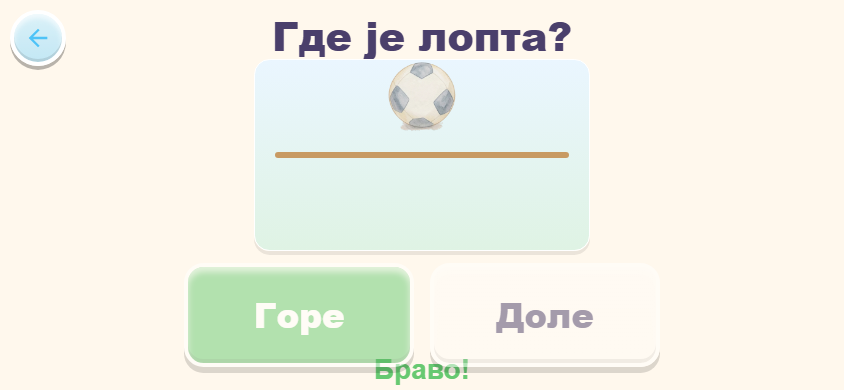
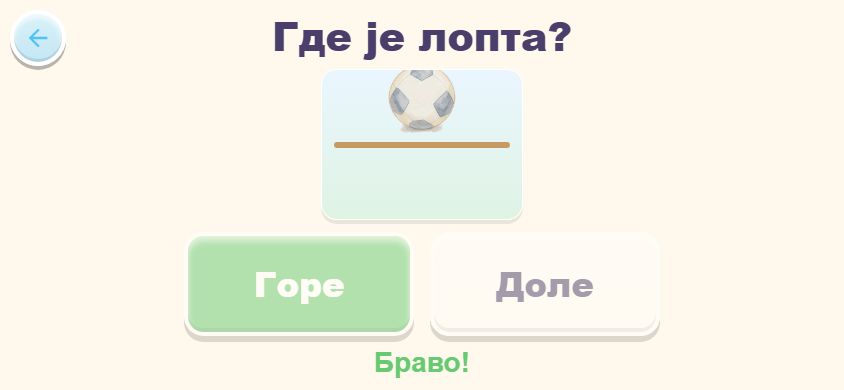
fix(spatial): keep success feedback clear of answer buttons on short landscape
Task 390. At 844x390 the 'Браво!' success feedback overlapped the answer buttons by 13px. Confirmed by measuring all four viewports first (only phone landscape collided), then shrank the fixed-ratio stage at short heights so the whole stage fits the viewport and the feedback sits below the choices with its existing gap. Re-verified: phone landscape gap is now +11px, all other viewports unchanged. New spatial_smoke.js guard negative-tested against the old layout (gap -13px -> fail), restored from pre-mutation copy. 8 review screenshots, version 3.0.6 -> 3.0.7.

Agent: OpenCode/Big Pickle

Changed region(s): [[0.2156, 0.2769, 0.8009, 0.9846], [0.4621, 0.1538, 0.5237, 0.2462], [0.7701, 0.8308, 0.8009, 0.8615]]

diff --git a/tools/spatial_smoke.js b/tools/spatial_smoke.js
@@ -177,6 +177,25 @@ const MODES = [
   check('V5.1 grammar: all four §23 regions present on spatial', lsj.found.every(Boolean), JSON.stringify(lsj));
   check('V5.1 grammar: instruction + stage-mat render a real box; no h-overflow; non-vacuous', lsj.visible && lsj.overflow && lsj.bogus === false, JSON.stringify(lsj));
 
+  /* Task 390: on short landscapes the success feedback must never touch the
+     answer buttons. Drive a correct answer at 844x390 and measure the gap. */
+  await h.c.send('Emulation.setDeviceMetricsOverride', { width: 844, height: 390, deviceScaleFactor: 1, mobile: true });
+  await sleep(150);
+  await h.evalv(`window.__spatial.setRound(0)`);
+  const correctKey390 = (await state()).correct;
+  await h.tap(`#spatial-choice-${correctKey390}`);
+  await sleep(60);
+  const gap = JSON.parse(await h.evalv(`JSON.stringify((() => {
+    const fb = document.getElementById('spatial-feedback');
+    const ba = document.getElementById('spatial-choice-a').getBoundingClientRect();
+    const bb = document.getElementById('spatial-choice-b').getBoundingClientRect();
+    const f = fb.getBoundingClientRect();
+    const maxBot = Math.max(ba.bottom, bb.bottom);
+    return { gap: Math.round(f.top - maxBot), fbTop: Math.round(f.top), btnBot: Math.round(maxBot), fbText: fb.textContent };
+  })())`));
+  check('task 390: at 844x390 the success feedback does not touch the answer buttons',
+    gap.gap > 0 && gap.fbText === 'Браво!', JSON.stringify(gap));
+
   await h.close();
   console.log(`\n${getFails() === 0 ? 'ALL' : 'SOME'} CHECKS ${getFails() === 0 ? 'PASSED' : 'FAILED'} (${getFails()} fail)`);
   process.exit(getFails() ? 1 : 0);

diff --git a/docs/pages/spatial.html b/docs/pages/spatial.html
@@ -71,6 +71,14 @@
 
     #spatial-feedback{min-height:6vmin;font-size:4.4vmin;font-weight:700;color:var(--green);text-align:center}
     @media (min-width:800px){#spatial-prompt{font-size:40px}.spatial-choice{font-size:34px;min-width:230px;min-height:104px}#spatial-feedback{font-size:28px}}
+    /* Task 390: on short landscapes the success/try-again feedback ran into the
+       answer buttons. Shrink the fixed-ratio stage a little so the whole stage
+       (prompt, scene, choices, feedback) fits the viewport and the feedback
+       naturally sits below the choices with its existing gap instead of
+       overlapping them. */
+    @media (max-height: 520px) {
+      #spatial-scene { width: min(52vmin, 210px); }
+    }
     @media (prefers-reduced-motion: reduce){.spatial-choice{transition:none}.spatial-choice:active{transform:none}.spatial-choice.spatial-wrong{animation:none}}
   </style>
 </head>

diff --git a/game/pages/spatial.html b/game/pages/spatial.html
@@ -71,6 +71,14 @@
 
     #spatial-feedback{min-height:6vmin;font-size:4.4vmin;font-weight:700;color:var(--green);text-align:center}
     @media (min-width:800px){#spatial-prompt{font-size:40px}.spatial-choice{font-size:34px;min-width:230px;min-height:104px}#spatial-feedback{font-size:28px}}
+    /* Task 390: on short landscapes the success/try-again feedback ran into the
+       answer buttons. Shrink the fixed-ratio stage a little so the whole stage
+       (prompt, scene, choices, feedback) fits the viewport and the feedback
+       naturally sits below the choices with its existing gap instead of
+       overlapping them. */
+    @media (max-height: 520px) {
+      #spatial-scene { width: min(52vmin, 210px); }
+    }
     @media (prefers-reduced-motion: reduce){.spatial-choice{transition:none}.spatial-choice:active{transform:none}.spatial-choice.spatial-wrong{animation:none}}
   </style>
 </head>

diff --git a/project/tasks/ACTIVE.md b/project/tasks/ACTIVE.md
@@ -24,7 +24,7 @@ Only **NEW / IN PROGRESS / DEFERRED** tasks live here (budget: 20 KB, checked by
 - 387. DONE — Verify Coloring clear-button and palette geometry in phone landscape; change layout only if a real collision or unsafe proximity is measured (2026-11-06, OpenCode/Big Pickle). Measured boxes confirmed the review: at 844×390 (and every phone size) the palette tracks were a flat `9vmin` (=35px) while each swatch is a button with the global 64px floor, so neighbouring circles overlapped by up to 1783px² and the last column of row 1 spilled 29px past the palette box into the clear button (230px² overlap). Root fix: one `--swatch: clamp(48px, 9vmin, 72px)` token feeds both `grid-template-columns` and the swatch size (with `min-width/min-height:0` so the grid decides, the established classroom-tile pattern); phones get clean 48px targets, tablet/desktop keep 72px. Two new `coloring_smoke.js` guards (clear vs palette/swatch, swatch vs swatch) negative-tested against the old CSS, 8 refreshed review screenshots, version 3.0.3 → 3.0.4.
 - 388. DONE — Fix Cat Forest feeding-station crowding on short stages: the cat lift was a fixed stage fraction (`CAT_LIFT = 0.10`) too small on phone landscape (cat covered 37% of plate / 49% of treat). Cache `catH`/`plateH`/`stageH` in `measure()`, compute `liftPx = plateH/2 + catH/2 + 12` → lift fraction, re-`measure()` after the first cat element is appended in `renderCats()`; `catPos()` still returns the cat centre so sparkle/heart effects are unchanged (2026-11-06, OpenCode/Big Pickle). All five viewports now seat the cat with a 12px gap and 0% overlap. New `cat_forest_smoke.js` guard (seated cat vs plate/treat at tablet/desktop/phone-landscape/portrait) negative-tested against the old lift (37%/49% overlap on 844×390 → fails), restored from pre-mutation copy. 8 review screenshots, version 3.0.4 → 3.0.5.
 - 389. DONE — Improve Animal Counting stage balance and artwork scale without reducing the existing 64px answer-target floor: animal tiles were smallest (43 px) on phone landscape where the board is widest. Enlarged tiles (`clamp(60px,16vmin,104px)` base; `clamp(52px,13vmin,72px)` short-landscape) and a subtle warm stage background (`#FFF9F0`), so even 2-3 animals command the board. Verified all four viewports (portrait 62px, landscape 52px, tablet/desktop 104px) and that the V11 worst case (10 tiles + 10 choices) still fits with no overflow and the 64px choice floor holds. New `counting_smoke.js` guards (tile size at 4 viewports) negative-tested against the old clamps (portrait 59px/landscape 43px → fail), restored from pre-mutation copy. 8 review screenshots, version 3.0.5 → 3.0.6. (2026-11-06, OpenCode/Big Pickle)
-- 390. NEW — Separate Spatial feedback from answer controls at short landscape; implement only after confirming the near-collision.
+- 390. DONE — Separate Spatial feedback from answer controls at short landscape (implemented only after confirming the near-collision): at 844x390 the "Браво!" success feedback overlapped the answer buttons by 13px (gap -13px). Confirmed by measurement at all four viewports (only phone landscape collided), then shrank the fixed-ratio stage at short heights (`max-height:520px: #spatial-scene { width: min(52vmin, 210px); }`) so the whole stage fits the viewport and the feedback naturally sits below the choices with its existing gap. Re-verified: phone landscape gap is now +11px, feedback in view, prompt visible; portrait/tablet/desktop unchanged (gaps +11/+24/+24px). New spatial_smoke.js guard (correct answer at 844x390, gap > 0) negative-tested against the old layout (gap -13px → fail), restored from pre-mutation copy. 8 review screenshots, version 3.0.6 → 3.0.7. (2026-11-06, OpenCode/Big Pickle)
 - 391. NEW — Assess Compare portrait scale through child/device feedback before making subjective composition changes.
 - 392. NEW — Run portfolio playtesting Sessions A–D on a real device where possible; record observations and limitations.
 - 393. NEW — Reconcile GAME_MATRIX, current app registry, test/offline/screenshot flags and actual game-guide file mappings.

diff --git a/resources/General_reviews/Screenshot_Review/TABLE_OF_CONTENT.md b/resources/General_reviews/Screenshot_Review/TABLE_OF_CONTENT.md
@@ -1,6 +1,6 @@
 # Преглед екрана (UI review)
 
-- Генерисано / Generated: 2026-11-06T12:43:51.459Z
+- Генерисано / Generated: 2026-11-06T12:53:29.444Z
 - Поново направи / Regenerate: `node tools/screenshot.js --review=Screenshot_Review`
 - Освежи само промењену страну / Refresh only a changed page: `node tools/screenshot.js --review=Screenshot_Review --pages=<id> --task=<id>`
 
@@ -168,14 +168,14 @@
 | `space_phone-portrait.png` | Свемир | `/pages/space.html` | 390×844 | портрет | — | 05.11.2026. 21:02:59 | 380 |
 | `space_tablet-landscape.png` | Свемир | `/pages/space.html` | 1180×820 | пејзаж | — | 05.11.2026. 21:02:59 | 380 |
 | `space_tablet-portrait.png` | Свемир | `/pages/space.html` | 820×1180 | портрет | — | 05.11.2026. 21:02:59 | 380 |
-| `spatial__phone-landscape__PLAY.png` | Простор | `/pages/spatial.html` | 844×390 | пејзаж | PLAY | 05.11.2026. 19:48:22 | 379 |
-| `spatial__phone-portrait__PLAY.png` | Простор | `/pages/spatial.html` | 390×844 | портрет | PLAY | 05.11.2026. 19:48:22 | 379 |
-| `spatial__tablet-landscape__PLAY.png` | Простор | `/pages/spatial.html` | 1180×820 | пејзаж | PLAY | 05.11.2026. 19:48:22 | 379 |
-| `spatial__tablet-portrait__PLAY.png` | Простор | `/pages/spatial.html` | 820×1180 | портрет | PLAY | 05.11.2026. 19:48:22 | 379 |
-| `spatial_phone-landscape.png` | Простор | `/pages/spatial.html` | 844×390 | пејзаж | — | 05.11.2026. 18:53:41 | 379 |
-| `spatial_phone-portrait.png` | Простор | `/pages/spatial.html` | 390×844 | портрет | — | 05.11.2026. 18:53:41 | 379 |
-| `spatial_tablet-landscape.png` | Простор | `/pages/spatial.html` | 1180×820 | пејзаж | — | 05.11.2026. 18:53:41 | 379 |
-| `spatial_tablet-portrait.png` | Простор | `/pages/spatial.html` | 820×1180 | портрет | — | 05.11.2026. 18:53:41 | 379 |
+| `spatial__phone-landscape__PLAY.png` | Простор | `/pages/spatial.html` | 844×390 | пејзаж | PLAY | 06.11.2026. 13:53:29 | 390 |
+| `spatial__phone-portrait__PLAY.png` | Простор | `/pages/spatial.html` | 390×844 | портрет | PLAY | 06.11.2026. 13:53:29 | 390 |
+| `spatial__tablet-landscape__PLAY.png` | Простор | `/pages/spatial.html` | 1180×820 | пејзаж | PLAY | 06.11.2026. 13:53:29 | 390 |
+| `spatial__tablet-portrait__PLAY.png` | Простор | `/pages/spatial.html` | 820×1180 | портрет | PLAY | 06.11.2026. 13:53:29 | 390 |
+| `spatial_phone-landscape.png` | Простор | `/pages/spatial.html` | 844×390 | пејзаж | — | 06.11.2026. 13:53:28 | 390 |
+| `spatial_phone-portrait.png` | Простор | `/pages/spatial.html` | 390×844 | портрет | — | 06.11.2026. 13:53:28 | 390 |
+| `spatial_tablet-landscape.png` | Простор | `/pages/spatial.html` | 1180×820 | пејзаж | — | 06.11.2026. 13:53:28 | 390 |
+| `spatial_tablet-portrait.png` | Простор | `/pages/spatial.html` | 820×1180 | портрет | — | 06.11.2026. 13:53:28 | 390 |
 | `tracing_phone-landscape.png` | Писање | `/pages/tracing.html` | 844×390 | пејзаж | — | 05.11.2026. 18:53:41 | 379 |
 | `tracing_phone-portrait.png` | Писање | `/pages/tracing.html` | 390×844 | портрет | — | 05.11.2026. 18:53:41 | 379 |
 | `tracing_tablet-landscape.png` | Писање | `/pages/tracing.html` | 1180×820 | пејзаж | — | 05.11.2026. 18:53:41 | 379 |
